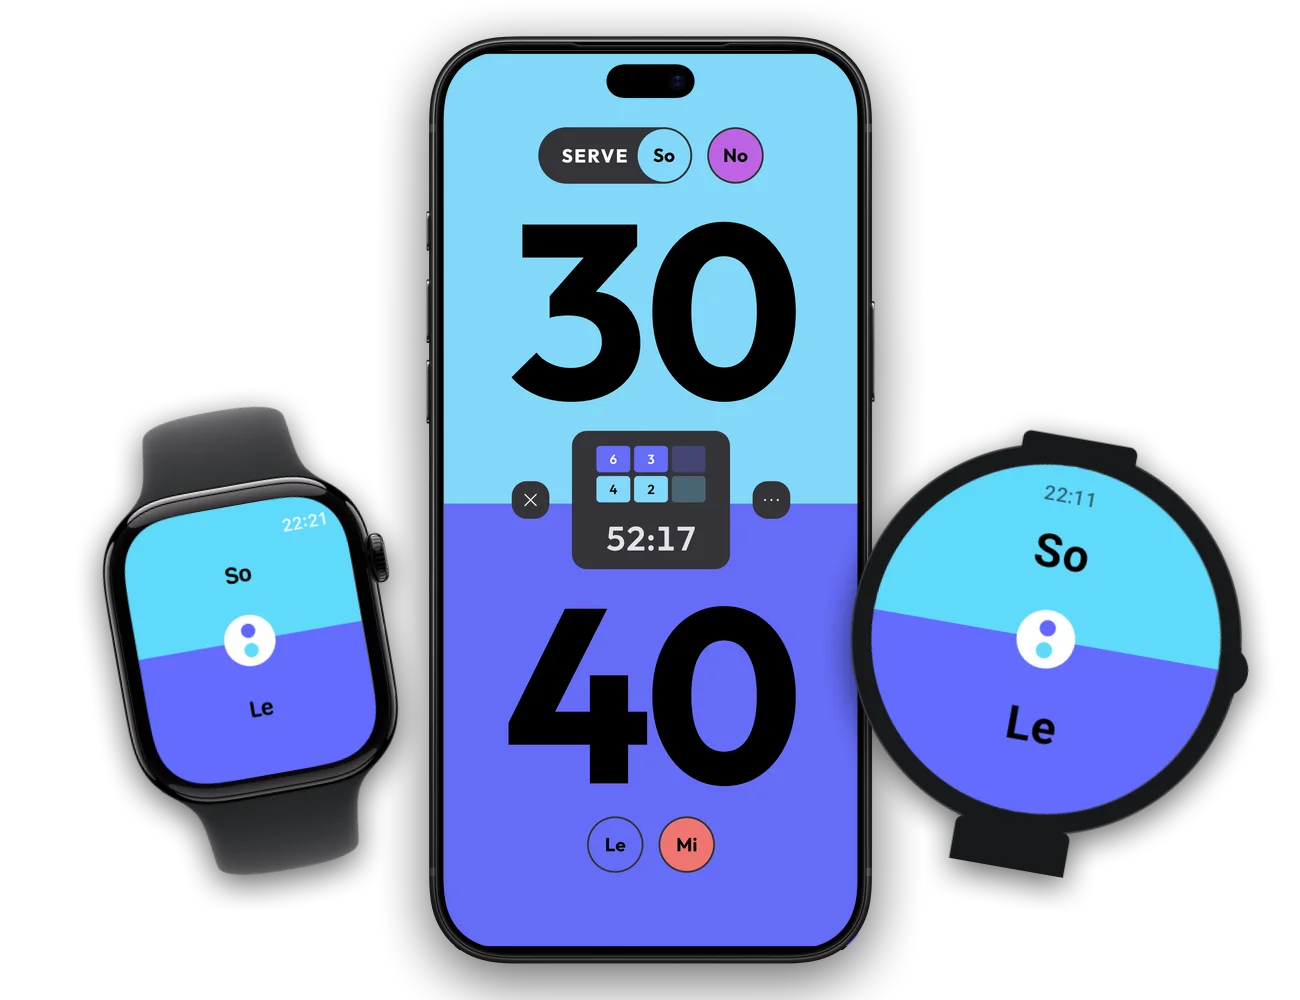
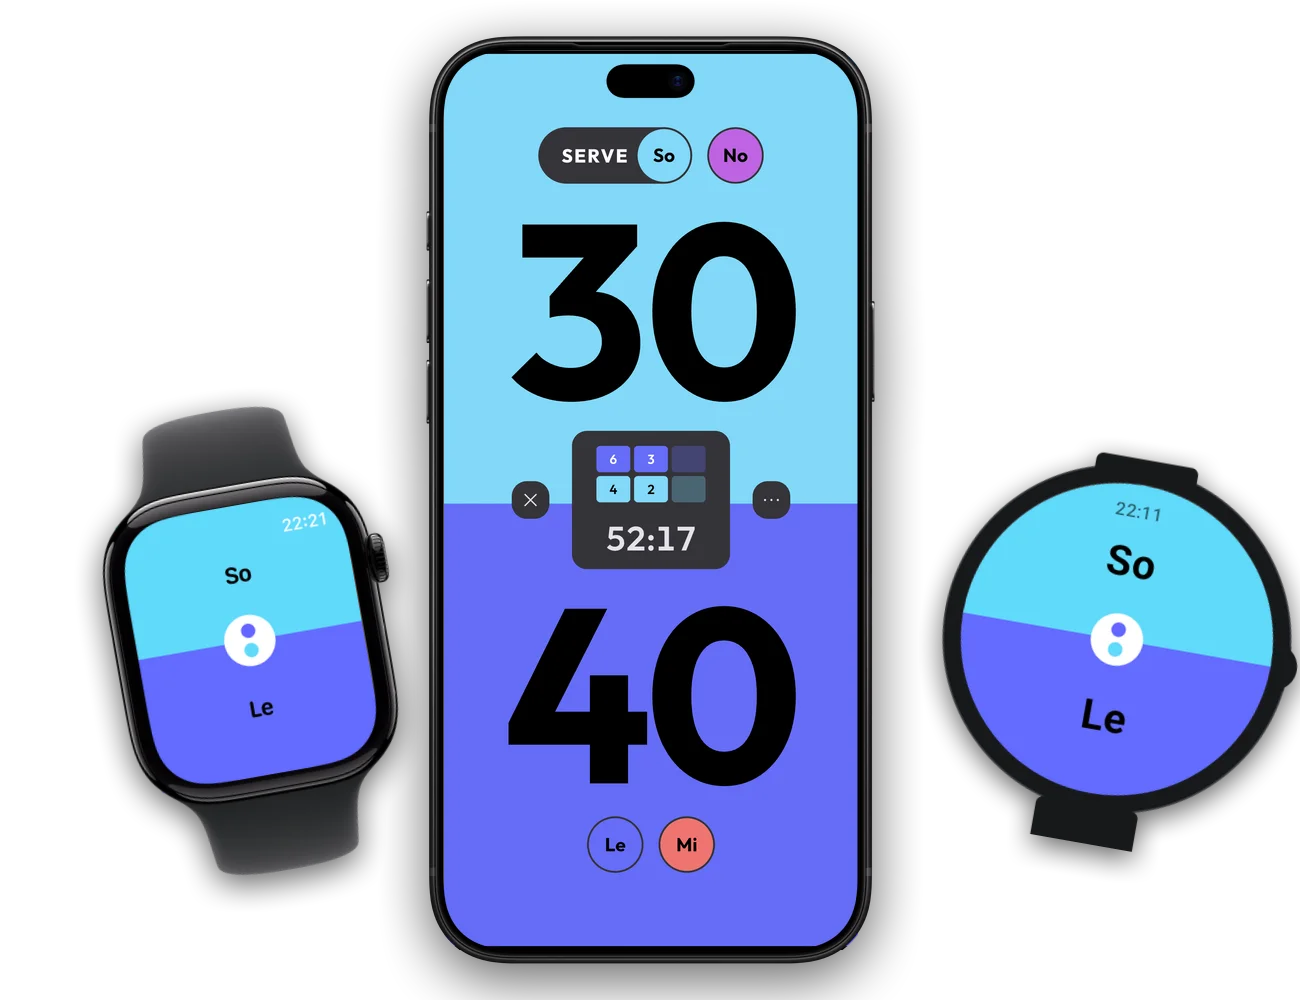
feat(how-it-works): smartwatch gestures move from the home page
The four gestures are instructions, so they now live on the
how-it-works page, in their own block after the game modes, with the
same picture. The home section keeps the pitch and links there
("So zählst du mit der Uhr"). The Wear OS watch in the picture no
longer overlaps the phone.

Claude-Session: https://claude.ai/code/session_01QDuw8iEwmNrZTxHekMSu15

Changed region(s): [[0.6462, 0.403, 1.0, 0.899]]

diff --git a/src/components/SmartwatchGestures.tsx b/src/components/SmartwatchGestures.tsx
@@ -1,0 +1,67 @@
+import { getTranslations, type Locale } from '../i18n'
+
+/**
+ * How to score with the smartwatch, on the how-it-works page.
+ *
+ * The home page only says that a watch can be a Klikkr and links here;
+ * the gestures themselves are instructions, and instructions live on
+ * this page next to the game modes. The game modes show phone
+ * screenshots step by step, which a watch has none of, so the watch
+ * gets its own block with the same picture as the home page.
+ */
+export function SmartwatchGestures({ lang = 'de' }: { lang?: Locale }) {
+  const t = getTranslations(lang).smartwatch
+
+  return (
+    <section
+      id="smartwatch"
+      className="w-full py-20 md:py-28 bg-zinc-900 border-t border-zinc-800 text-zinc-50"
+    >
+      <div className="container px-4 md:px-6 mx-auto max-w-6xl">
+        <div className="flex flex-col items-center text-center space-y-4">
+          <h2 className="text-4xl md:text-5xl font-extrabold tracking-tighter uppercase leading-tight">
+            {t.howTitle}{' '}
+            <span className="text-transparent bg-clip-text bg-gradient-to-r from-emerald-400 to-cyan-400">
+              {t.howTitleAccent}
+            </span>
+          </h2>
+          <p className="max-w-[650px] text-zinc-400 md:text-lg font-medium">
+            {t.howDescription}
+          </p>
+        </div>
+
+        <div className="mt-12 grid items-center gap-10 lg:grid-cols-2 lg:gap-16">
+          <img
+            src={`/app/${lang}/watch.webp`}
+            alt={t.imageAlt}
+            width={1300}
+            height={1000}
+            loading="lazy"
+            className="w-full h-auto"
+          />
+
+          <ol className="space-y-4">
+            {t.gestures.map(
+              (gesture: { title: string; description: string }, i: number) => (
+                <li
+                  key={gesture.title}
+                  className="flex items-start gap-4 rounded-2xl border border-zinc-800 bg-zinc-950 p-5"
+                >
+                  <span className="flex h-12 w-12 shrink-0 items-center justify-center rounded-xl border border-zinc-700/30 bg-zinc-800/50 text-lg font-extrabold text-zinc-300">
+                    {String(i + 1).padStart(2, '0')}
+                  </span>
+                  <div className="pt-1">
+                    <h3 className="text-xl font-bold tracking-tight text-zinc-100">
+                      {gesture.title}
+                    </h3>
+                    <p className="text-zinc-400">{gesture.description}</p>
+                  </div>
+                </li>
+              )
+            )}
+          </ol>
+        </div>
+      </div>
+    </section>
+  )
+}

diff --git a/src/components/SmartwatchSection.tsx b/src/components/SmartwatchSection.tsx
@@ -1,4 +1,4 @@
-import { getTranslations, type Locale } from '../i18n'
+import { getLocalizedPath, getTranslations, type Locale } from '../i18n'
 import { StoreBadges } from './AppFeaturesSection'
 
 /**
@@ -7,7 +7,9 @@ import { StoreBadges } from './AppFeaturesSection'
  * It sits right after the system section, where a visitor has just read
  * "band, app, scoreboard" and wonders whether they need the band. The
  * answer here is: not if you already wear a smartwatch. The bands stay
- * in the last line, for doubles and for everyone without a watch.
+ * in the last line, for doubles and for everyone without a watch. How
+ * to score on the watch is an instruction, so it lives on the
+ * how-it-works page (SmartwatchGestures) and this section links there.
  *
  * The picture comes from the app repo's mokkr pipeline
  * (`store_assets/story/web/watch.json`, exported by `export_web.ts`) and
@@ -52,24 +54,16 @@ export function SmartwatchSection({ lang = 'de' }: { lang?: Locale }) {
               </p>
             </div>
 
-            <ul className="grid grid-cols-2 gap-3">
-              {t.gestures.map(
-                (gesture: { title: string; description: string }) => (
-                  <li
-                    key={gesture.title}
-                    className="rounded-2xl border border-zinc-800 bg-zinc-950 px-4 py-3"
-                  >
-                    <p className="font-bold text-zinc-100">{gesture.title}</p>
-                    <p className="text-sm text-zinc-400">
-                      {gesture.description}
-                    </p>
-                  </li>
-                )
-              )}
-            </ul>
-
             <div className="space-y-2">
-              <p className="text-zinc-400">{t.faces}</p>
+              <p className="text-zinc-400">
+                {t.faces}{' '}
+                <a
+                  href={`${getLocalizedPath('/how-it-works', lang)}#smartwatch`}
+                  className="text-emerald-400 underline-offset-4 hover:underline focus:outline-none focus-visible:ring-2 focus-visible:ring-emerald-500/60 rounded-sm"
+                >
+                  {t.howLink}
+                </a>
+              </p>
               <p className="text-lg font-semibold text-zinc-100">{t.pricing}</p>
               <p className="text-sm text-zinc-500">{t.compatibility}</p>
             </div>

diff --git a/src/i18n/fr.ts b/src/i18n/fr.ts
@@ -108,6 +108,11 @@ export const fr: Translations = {
     pricing:
       'Trois matchs gratuits, puis CHF 10 une seule fois pour la montre. Sans abonnement.',
     compatibility: 'Apple Watch dès watchOS 10 · Wear OS dès la version 3',
+    howTitle: 'Compter avec votre',
+    howTitleAccent: 'montre connectée',
+    howDescription:
+      'Ouvrez Klikkr sur votre Apple Watch ou votre montre Wear OS et lancez le match sur le téléphone. Ensuite, vous comptez depuis le poignet.',
+    howLink: 'Comment compter avec la montre',
     bandsHint:
       'Pour le double ou les joueurs sans montre connectée, il y a les bracelets Klikkr.',
     bandsLink: 'Voir les bracelets',

diff --git a/src/i18n/en.ts b/src/i18n/en.ts
@@ -106,6 +106,11 @@ export const en: Translations = {
     pricing:
       'Three matches free, then a one-time CHF 10 for the watch. No subscription.',
     compatibility: 'Apple Watch with watchOS 10 or later · Wear OS 3 or later',
+    howTitle: 'Keep score with your',
+    howTitleAccent: 'smartwatch',
+    howDescription:
+      'Open Klikkr on your Apple Watch or Wear OS watch and start the match on your phone. From then on you score from your wrist.',
+    howLink: 'How to score with the watch',
     bandsHint:
       'For doubles, or players without a smartwatch, there are the Klikkr bands.',
     bandsLink: 'See the bands',

diff --git a/src/i18n/it.ts b/src/i18n/it.ts
@@ -108,6 +108,11 @@ export const it: Translations = {
     pricing:
       "Tre partite gratis, poi CHF 10 una sola volta per l'orologio. Nessun abbonamento.",
     compatibility: 'Apple Watch da watchOS 10 · Wear OS dalla versione 3',
+    howTitle: 'Conta con il tuo',
+    howTitleAccent: 'smartwatch',
+    howDescription:
+      "Apri Klikkr sul tuo Apple Watch o sull'orologio Wear OS e avvia la partita sul telefono. Da lì conti dal polso.",
+    howLink: "Come contare con l'orologio",
     bandsHint:
       'Per il doppio o per chi non ha uno smartwatch ci sono i braccialetti Klikkr.',
     bandsLink: 'Vedi i braccialetti',

diff --git a/src/i18n/de.ts b/src/i18n/de.ts
@@ -107,6 +107,11 @@ export const de: Translations = {
     pricing:
       'Drei Matches gratis, danach einmalig CHF 10 für die Uhr. Kein Abo.',
     compatibility: 'Apple Watch ab watchOS 10 · Wear OS ab Version 3',
+    howTitle: 'Zählen mit der',
+    howTitleAccent: 'Smartwatch',
+    howDescription:
+      'Öffne Klikkr auf deiner Apple Watch oder Wear-OS-Uhr und starte das Match auf dem Handy. Ab dann zählst du am Handgelenk.',
+    howLink: 'So zählst du mit der Uhr',
     bandsHint:
       'Für Doppel oder Spieler ohne Smartwatch gibt es die Klikkr-Armbänder.',
     bandsLink: 'Zu den Armbändern',
